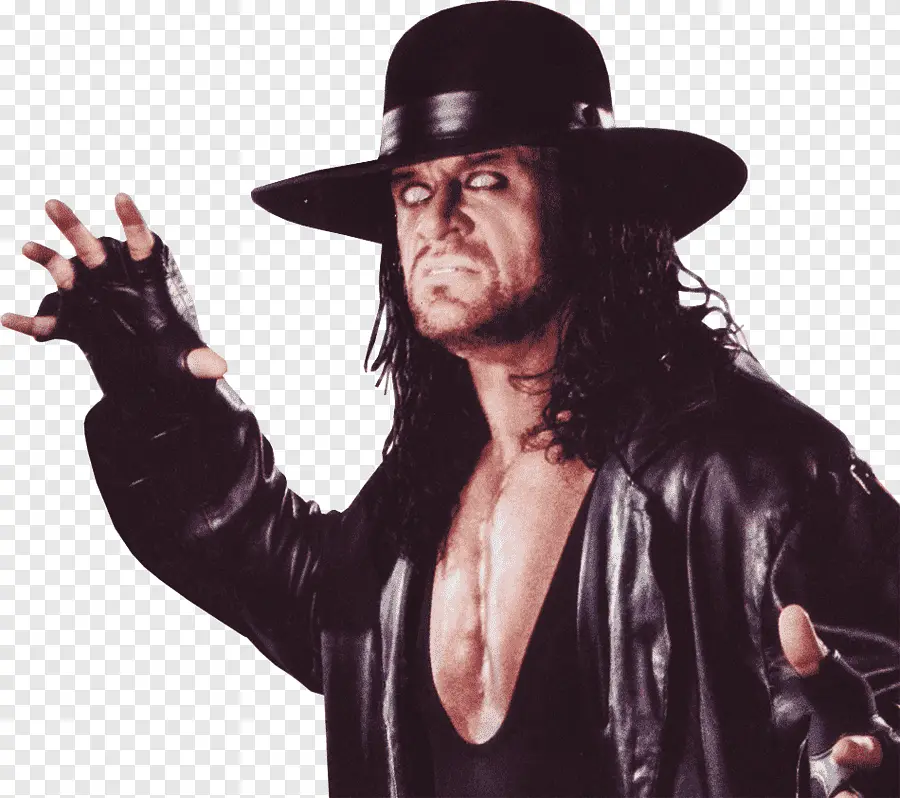
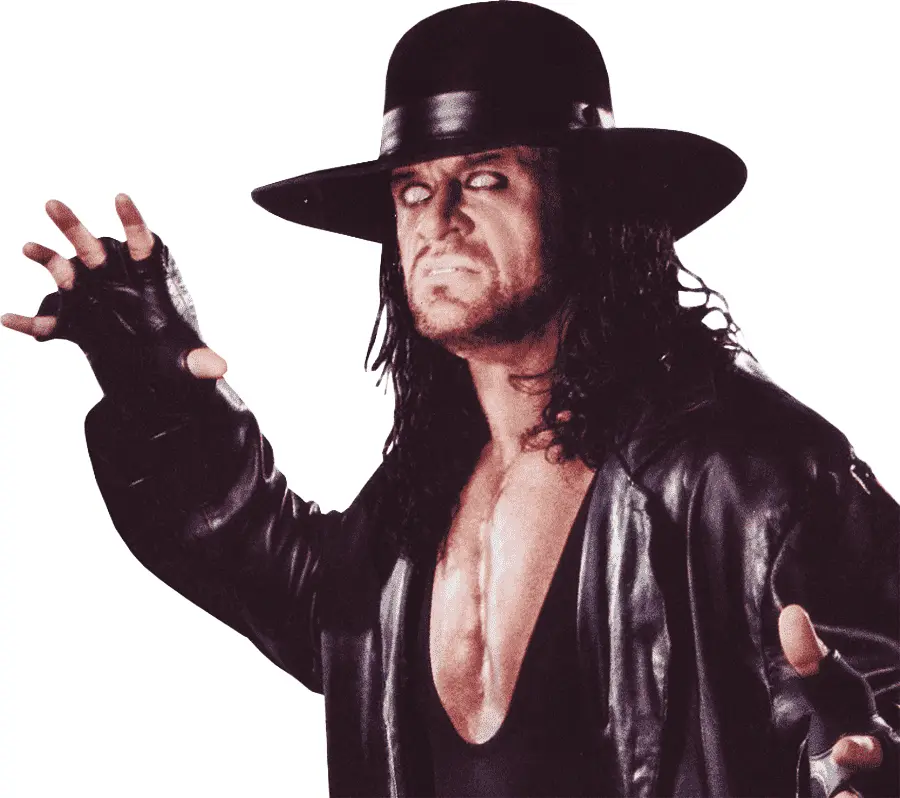
feat: add work tile for pair-programmer

diff --git a/components/Articles/ClaudeCodeDiedRip/ClaudeCodeDiedRip.tsx b/components/Articles/ClaudeCodeDiedRip/ClaudeCodeDiedRip.tsx
@@ -28,8 +28,9 @@ export default function ClaudeDiedRip(): React.JSX.Element {
             alt="WWF Undertaker with his signature hat and coat, staring menacingly into the camera"
             loader={imageLoader}
             src="/images/undertaker.webp"
-            style={{ objectFit: 'contain', maxWidth: '75%' }}
-            fill
+            width={900}
+            height={798}
+            style={{ width: '100%', height: 'auto' }}
           />
           <p className={altText}>Undertaker</p>
         </div>
@@ -168,7 +169,7 @@ export default function ClaudeDiedRip(): React.JSX.Element {
           A friend of mine sent me a video about how fast vLLM is, so I gotta try it. 
         </p>
         <div className={sharedStyles.minus10LeftMargin}>
-          <Tags tags={['AI', 'AI ownership', 'quantization', 'local model hosting', 'local inference', 'llama.cpp', 'MoE', 'DGX Spark', 'CLI tools']} />
+          <Tags tags={['Agentic AI', 'AI ownership', 'quantization', 'local model hosting', 'local inference', 'llama.cpp', 'MoE', 'DGX Spark', 'CLI tools']} />
         </div>
       </div>
       <ReturnArrow />

diff --git a/components/Project/projects.ts b/components/Project/projects.ts
@@ -21,7 +21,8 @@ export type ProjectName =
   | 'speechavatar'
   | 'examplemcp'
   | 'examplerag'
-  | 'toliveai';
+  | 'toliveai'
+  | 'pairprogrammer';
 
 export type Project = {
   projectImg: string;
@@ -49,6 +50,18 @@ export const projects: Project[] = [
     linkText: 'Learn more',
     secondaryLink: 'https://tolive.ai',
     secondaryTarget: '_blank',
+  },
+  {
+    title: 'Pair Programmer*',
+    projectImg: '/images/demo-pair-programmer.gif',
+    projectDes:
+      'Local AI coding agent powered by Qwen3-Coder-Next (llama-server) or AWS Bedrock. Includes a VS Code extension that automatically sends your active file as context.',
+    projectStack: 'pairprogrammer',
+    projectLink: '/articles/claude-code-died-rip',
+    target: '_self',
+    linkText: 'Learn more',
+    gitHubLink:
+      '/interstitial?url=https://github.com/naeem-gitonga/pair-programmer&where=GitHub',
   },
   {
     title: 'Example RAG*',

diff --git a/components/StackItems/StackItems.tsx b/components/StackItems/StackItems.tsx
@@ -39,7 +39,8 @@ const {
   eventbridge,
   route53,
   s3,
-  lancedb
+  lancedb,
+  llamacpp
 } = styles;
 
 type StackItemProps = {
@@ -208,6 +209,13 @@ export const projectStackMap: ProjectMapType = {
     <StackItem text="Docker" className={docker} key="docker" />,
     <StackItem text="WebSockets" className={websockets} key="websockets" />,
     <StackItem text="Lambda" className={lambda} key="lambda" />,
+  ],
+  pairprogrammer: [
+    <StackItem text="TypeScript" className={typescript} key="typescript" />,
+    <StackItem text="Node" className={node} key="node" />,
+    <StackItem text="llama.cpp" className={llamacpp} key="llamacpp" />,
+    <StackItem text="Bedrock" className={bedrock} key="bedrock" />,
+    <StackItem text="Docker" className={docker} key="docker" />,
   ],
   toliveai: [
     <StackItem text="Bedrock" className={bedrock} key="bedrock" />,

diff --git a/components/StackItems/StackItems.module.scss b/components/StackItems/StackItems.module.scss
@@ -162,3 +162,7 @@ $pictures-url: '/images/';
 .mcp {
   @include background('mcp-logo');
 }
+
+.llamacpp {
+  @include background('llamacpp-logo');
+}

diff --git a/components/SubscriberBanner/SubscriberBanner.module.scss b/components/SubscriberBanner/SubscriberBanner.module.scss
@@ -13,7 +13,7 @@
 
 .prompt {
   margin: 0;
-  font-size: 15px;
+  font-size: 14px;
   color: #374151;
   font-weight: 600;
 }
